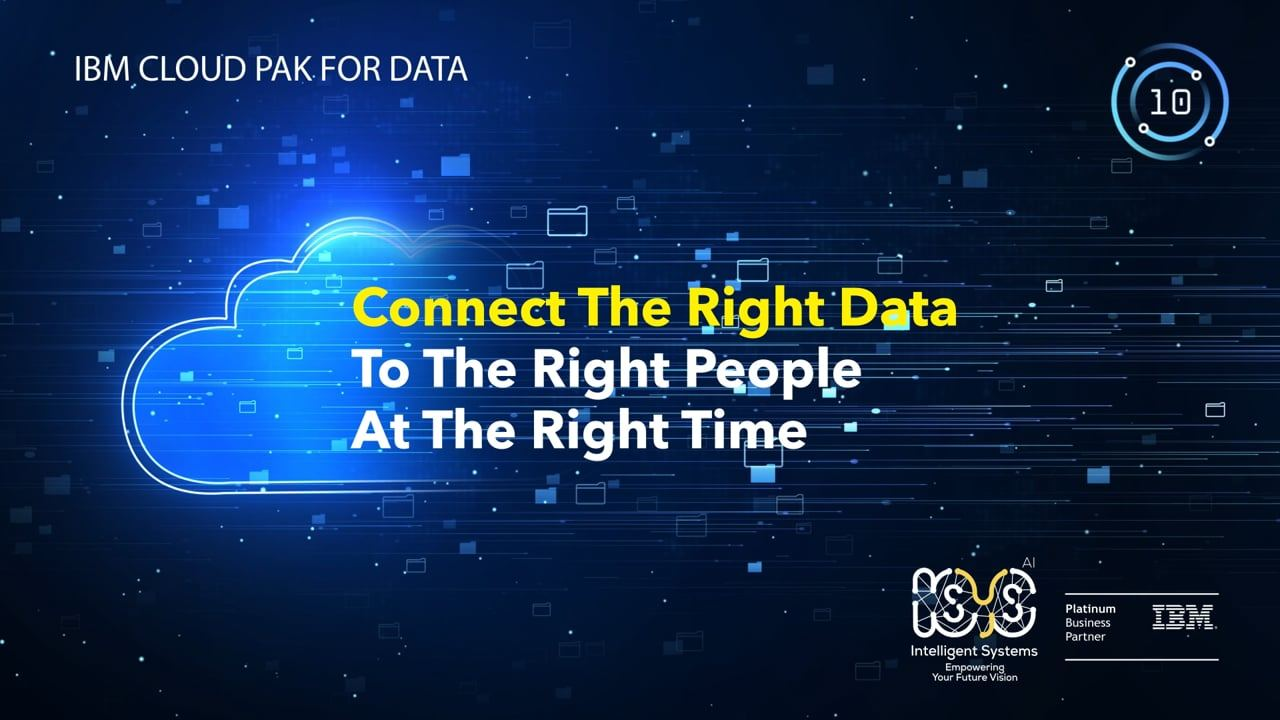
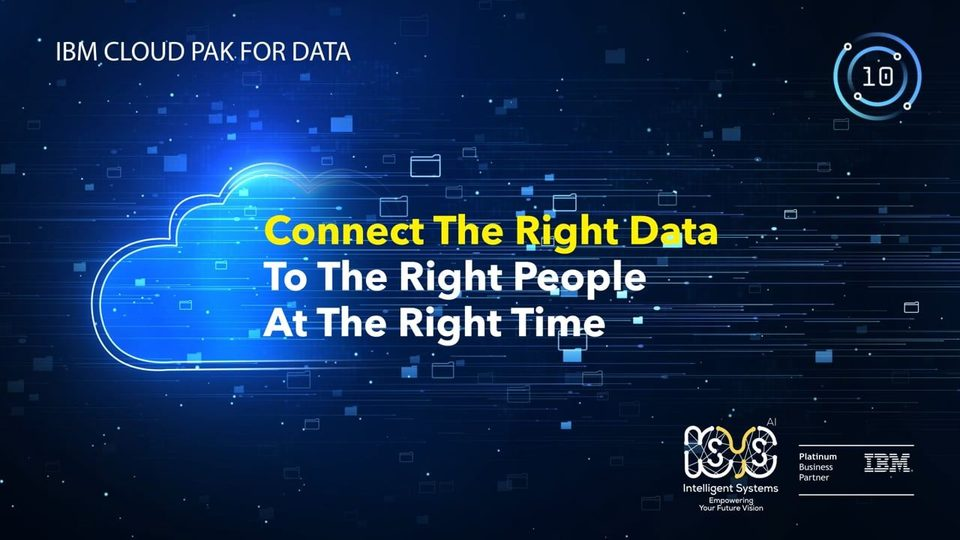
Speed: lighter homepage scroll loop; resize 1280px film thumbnails to 960px
Claude-Session: https://claude.ai/code/session_019Ux5G4skCHpsAGw9RueN5Y

diff --git a/site/public/js/home.js b/site/public/js/home.js
@@ -14,12 +14,15 @@ document.querySelectorAll(".count").forEach(el=>{if(!RM)el.textContent="0";cio.o
 
 /* scroll: marquee velocity, parallax, nav hide */
 const track=document.getElementById("track"), nav=document.querySelector(".nav");
+// Measure the marquee's loop width once (and on resize), not on every frame.
+let half=track.scrollWidth/2;addEventListener("resize",()=>{half=track.scrollWidth/2},{passive:true});
 let x=0,lastY=scrollY,vel=0;
 function tick(){
   const y=scrollY,d=y-lastY;lastY=y;vel+= (Math.abs(d)-vel)*.1;
-  if(!RM){x-= (0.6+vel*.25)*(ar?-1:1);const half=track.scrollWidth/2;if(ar){if(x>half)x-=half}else if(-x>half)x+=half;track.style.transform=`translate3d(${x}px,0,0)`;}
+  if(!RM){x-= (0.6+vel*.25)*(ar?-1:1);if(ar){if(x>half)x-=half}else if(-x>half)x+=half;track.style.transform=`translate3d(${x}px,0,0)`;}
   nav.classList.toggle("hide",d>4&&y>400);if(d<-4)nav.classList.remove("hide");
-  if(!RM)document.querySelectorAll(".w img,.px").forEach(im=>{const r=im.parentElement.getBoundingClientRect();if(r.bottom<0||r.top>innerHeight)return;const p=(r.top+r.height/2-innerHeight/2)/innerHeight;im.style.setProperty("--py",(p*-6).toFixed(2)+"%")});
+  // Parallax only moves when the page scrolls.
+  if(!RM&&d!==0)document.querySelectorAll(".w img,.px").forEach(im=>{const r=im.parentElement.getBoundingClientRect();if(r.bottom<0||r.top>innerHeight)return;const p=(r.top+r.height/2-innerHeight/2)/innerHeight;im.style.setProperty("--py",(p*-6).toFixed(2)+"%")});
   requestAnimationFrame(tick);
 }
 requestAnimationFrame(tick);
